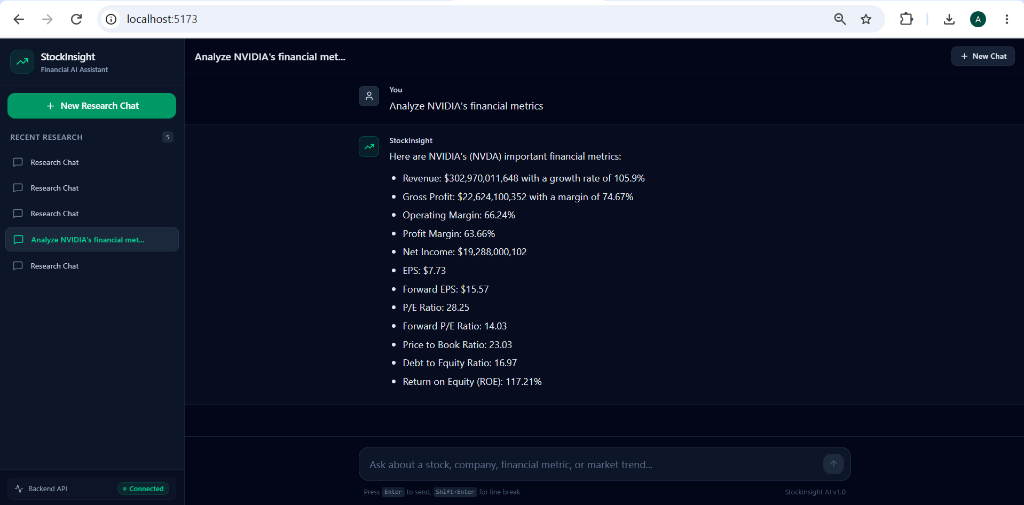
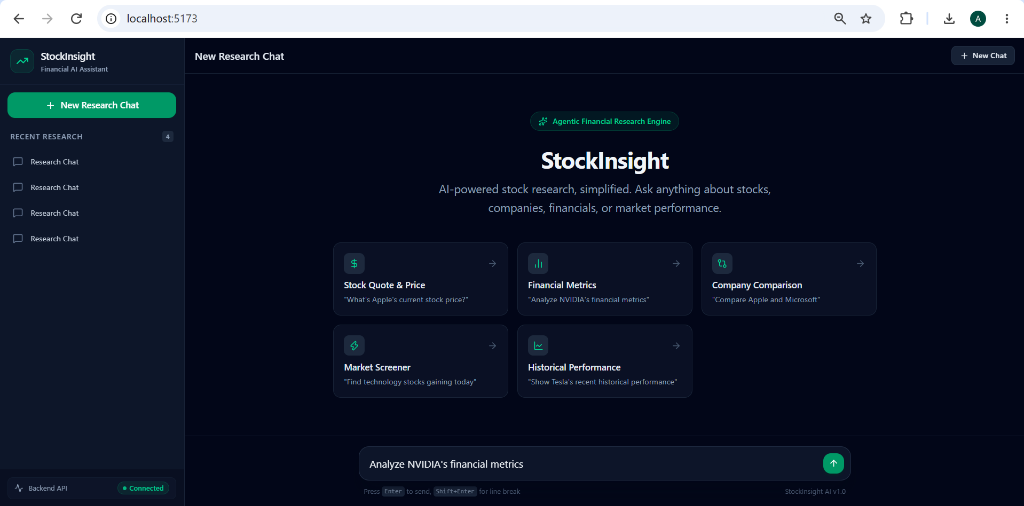
Updated

diff --git a/README.md b/README.md
@@ -1,203 +1,128 @@
 # StockInsight
 
-**AI-powered stock research and screening agent built with LangGraph, Qwen 2.5, FastAPI, and modern web technologies.**
+Agentic financial research assistant powered by LangGraph, Qwen 2.5, FastAPI, and yfinance.
 
-StockInsight is an agentic financial assistant that replaces manual ticker hunting with natural-language conversations. Users can ask about stock prices, company profiles, financial metrics, historical performance, stock screeners, or side-by-side company comparisons. 
-
-Rather than relying on rigid keyword routing, StockInsight uses an LLM-driven agentic graph to dynamically decide which financial tools to invoke, execute them against live data providers, and synthesize raw metrics into clean, structured insights.
-
-| Hero & Quick Prompts | Research & Financial Metrics |
-| :---: | :---: |
-| ![StockInsight Hero](docs/assets/stockinsight-empty.png) | ![StockInsight Research](docs/assets/stockinsight-chat.png) |
+StockInsight is an AI application for natural-language stock research. Users can ask questions about stock prices, company profiles, financial metrics, historical performance, and stock screening, while the LangGraph agent dynamically selects the appropriate research tools, queries live market data, and synthesizes structured insights.
 
 ---
 
-## ⚡ Key Features
+## Key Features
 
-- **Natural-Language Stock Research**: Conversationally query market data, earnings metrics, and price trends.
-- **Agentic Tool Calling**: The agent autonomously determines which tools are required to answer complex multi-part queries.
-- **Stock Screening**: Filter top market gainers, losers, technology stocks, and valuation candidates.
-- **Fundamental & Technical Data**: Pull real-time prices, financial statements, valuation ratios (P/E, ROE, margins), and OHLC history.
-- **Real-Time Streaming**: Stream model output token-by-token using Server-Sent Events (SSE).
-- **Persistent State Checkpointing**: State and conversation history persisted per `thread_id` via SQLite.
-- **Decoupled Architecture**: High-performance FastAPI backend paired with a modern React + Vite frontend.
-- **Observability**: Full agent execution tracing and tool monitoring integrated with LangSmith.
-
----
-
-## 🧠 How the Agent Works
-
-StockInsight executes a cyclic decision loop powered by **LangGraph** and **Qwen 2.5 (14B)**:
-
-```
-[User Query] ──▶ [LLM Agent Node] ──▶ Requires Tool? ──┬─ Yes ──▶ [Tool Execution Node] ──▶ (Feed results back to LLM)
-                                                      │
-                                                      └─ No  ──▶ [Stream Final Response]
-```
-
-1. **Evaluation**: The LLM evaluates user intent and inspects available tool definitions.
-2. **Tool Execution**: If data is needed, the graph routes execution to the specified financial research tool.
-3. **Synthesis**: Tool outputs (raw financial JSON/dictionaries) are passed back into the graph state for the LLM to format and present.
+- **Agentic Tool Selection**: Dynamically routes user queries to specialized financial research tools using LangGraph state machines.
+- **Natural-Language Stock Research**: Queries fundamentals, financial metrics, and price history in plain English.
+- **Financial Research Tools**: Integrates with `yfinance` to pull live stock prices, company profiles, financial statements, and OHLC data.
+- **Stock Screening**: Runs predefined market screens such as day gainers, technology growth, and undervalued stocks.
+- **Streaming Responses**: Delivers real-time token streaming to the frontend using FastAPI Server-Sent Events (SSE).
+- **Persistent Sessions**: Manages multi-turn conversation state across distinct sessions using SQLite checkpointing.
+- **FastAPI Backend**: Asynchronous API server handling agent execution, streaming, and session history management.
+- **LangSmith Observability**: End-to-end execution tracing for agent decision-making and tool invocations.
 
 ---
 
-## 🏗 Architecture & Data Flow
+## How It Works
 
 ```mermaid
 flowchart TD
-    subgraph Client ["Frontend Layer"]
-        UI["React + Vite + Tailwind CSS"]
-    end
-
-    subgraph API ["Backend API Layer"]
-        FA["FastAPI (fastapi_backend.py)"]
-        SSE["Server-Sent Events (/chat/stream)"]
-    end
-
-    subgraph Agent ["Agent Engine Layer"]
-        LG["LangGraph Workflow (backend_flow.py)"]
-        LLM["Qwen 2.5 14B (via Ollama)"]
-        Saver[("SQLite Checkpointer (chatbot.db)")]
-    end
-
-    subgraph Tools ["Financial Research Tools"]
-        T1["simple_screener"]
-        T2["get_stock_price"]
-        T3["get_company_profile"]
-        T4["get_financial_summary"]
-        T5["get_stock_history"]
-        YF[("yfinance / Yahoo Finance")]
-    end
-
-    subgraph Obs ["Observability"]
-        LS["LangSmith Tracing"]
-    end
-
-    UI <-->|HTTP / SSE| FA
-    FA <--> SSE
-    FA <--> LG
-    LG <--> Saver
-    LG <--> LLM
-    LG <--> Tools
-    Tools <--> YF
-    LG -.->|Traces| LS
+    User([User]) --> UI[React Frontend]
+    UI -->|HTTP / SSE| API[FastAPI Backend]
+    API --> Agent[LangGraph Agent Workflow]
+    Agent -->|Persist / Load State| DB[(SQLite Checkpointer)]
+    Agent <-->|LLM Invocation| LLM[Qwen 2.5 / Ollama]
+    Agent -->|Route Tool Call| Tools{Tool Node}
+    Tools -->|Fetch Financial Data| YF[yfinance API]
+    YF -->|Raw Market Data| Tools
+    Tools -->|Tool Results| Agent
+    Agent -->|Token Stream via SSE| API
+    API -->|Stream Response| UI
+    Agent -.->|Execution Traces| LS[LangSmith]
 ```
 
 ---
 
-## 🛠 Financial Research Tools
+## Agent Tools
 
-The agent is bound to five specialized tools exposed via LangChain function calling:
+The LLM is equipped with five tools for retrieving stock and market data:
 
-| Tool | Description |
-|---|---|
-| `simple_screener` | Screens stocks using predefined Yahoo Finance market filters (day gainers, tech growth, etc.). |
-| `get_stock_price` | Fetches the latest market price, currency, and daily percentage movement for a ticker. |
-| `get_company_profile` | Retrieves business summary, sector, industry, market cap, and employee count. |
-| `get_financial_summary` | Pulls fundamental metrics including Revenue, EPS, Profit Margins, P/E ratio, Debt-to-Equity, and ROE. |
-| `get_stock_history` | Downloads historical OHLC (Open, High, Low, Close) and volume data across custom timeframes. |
+| Tool | Purpose |
+| --- | --- |
+| `simple_screener` | Stock screening using predefined market screens |
+| `get_stock_price` | Latest available price and daily change |
+| `get_company_profile` | Company and business information |
+| `get_financial_summary` | Key financial and valuation metrics |
+| `get_stock_history` | Historical OHLC and volume data |
 
----
-
-## 🌊 Streaming & Real-Time Responses
-
-StockInsight streams response tokens incrementally for a responsive chat experience:
-
-1. LangGraph streams messages in chunked tokens during graph execution.
-2. FastAPI exposes `POST /chat/stream` returning `text/event-stream`.
-3. Server-Sent Events (SSE) forward formatted JSON data payloads (`data: {"type": "token", "content": "..."}`).
-4. The React frontend parses incoming stream chunks line-by-line via `ReadableStream` and renders Markdown progressively.
+LangChain exposes these tools to the LLM via tool binding, while LangGraph manages conditional routing and tool execution within the agent loop.
 
 ---
 
-## 💾 State Persistence
+## Streaming & Persistence
 
-State checkpointing is powered by LangGraph's `SqliteSaver` connected to `chatbot.db`:
-
-- Every research interaction is isolated under a unique `thread_id`.
-- Interrupted or multi-turn research workflows preserve context across sessions.
-- Users can seamlessly switch between active and historical research threads without losing agent memory.
+- **Streaming**: FastAPI exposes a `POST /chat/stream` endpoint that streams model output tokens using Server-Sent Events (SSE). Raw internal tool output is processed and filtered on the backend before final response tokens are streamed to the frontend.
+- **Persistence**: LangGraph state is checkpointed in SQLite via `SqliteSaver`. Each chat session is tracked using a unique `thread_id`, enabling multi-turn conversation memory and session switching without state loss.
 
 ---
 
-## 🧰 Tech Stack
+## Tech Stack
 
-| Component | Technology |
-|---|---|
-| **AI & Agent** | LangGraph, LangChain, Qwen 2.5 (14B), Ollama |
-| **Backend API** | Python, FastAPI, Uvicorn, SSE |
-| **Data Provider** | yfinance (Yahoo Finance API) |
-| **Persistence** | SQLite, LangGraph `SqliteSaver` |
-| **Frontend** | React 19, Vite, Tailwind CSS v4, Lucide React, React Markdown |
-| **Observability** | LangSmith |
+- **AI & Agent Engine**: Python, LangGraph, LangChain, Qwen 2.5 (14B), Ollama
+- **Backend API**: FastAPI, Uvicorn, Server-Sent Events (SSE)
+- **Financial Data**: `yfinance` (Yahoo Finance API)
+- **Persistence**: SQLite, `SqliteSaver`
+- **Frontend**: React 19, Vite, Tailwind CSS v4
+- **Observability**: LangSmith
 
 ---
 
-## 🔌 API Endpoints
-
-FastAPI exposes the following core endpoints (`fastapi_backend.py`):
-
-- `POST /chat/stream` — Main streaming endpoint consuming a prompt and `thread_id`, returning an SSE text stream.
-- `POST /chat` — Synchronous chat endpoint returning complete assistant response object.
-- `GET /conversations` — Retrieves list of existing persistent thread IDs from SQLite checkpoints.
-- `GET /conversations/{thread_id}` — Loads full message history for a given conversation thread.
-- `POST /conversations` — Instantiates a new thread ID session.
-- `GET /health` — Returns service status and health information.
-
----
-
-## 📂 Project Structure
+## Project Structure
 
 ```
 stockScreener/
-├── backend_flow.py       # LangGraph agent workflow & state machine definition
-├── fastapi_backend.py    # FastAPI application, CORS, and SSE streaming endpoints
-├── tool.py               # yfinance tool declarations (@tool wrappers)
-├── chatbot.db            # SQLite checkpoint database
-├── frontend/             # React + Vite frontend application
-│   ├── src/
-│   │   ├── components/   # Sidebar, Header, ChatInput, MessageBubble, EmptyState
-│   │   ├── services/     # API integration & SSE stream parser (api.js)
-│   │   └── App.jsx       # Main application layout and state management
-│   ├── package.json
-│   └── vite.config.js
-├── docs/assets/          # Project documentation screenshots
-├── .env                  # Environment variables configuration
-└── README.md             # Technical project documentation
+├── backend_flow.py       # LangGraph agent graph, state, and nodes
+├── fastapi_backend.py    # FastAPI server, REST endpoints, and SSE streaming
+├── tool.py               # yfinance tool definitions (@tool functions)
+├── requirements.txt      # Python backend dependencies
+└── frontend/             # React + Vite frontend application
+    ├── src/
+    │   ├── components/   # UI components (Sidebar, ChatInput, MessageBubble)
+    │   ├── services/     # API client and SSE stream reader (api.js)
+    │   └── App.jsx       # Main application layout and state logic
+    ├── package.json      # Frontend package configuration and scripts
+    └── vite.config.js    # Vite configuration
 ```
 
 ---
 
-## 🚀 Run Locally
+## Run Locally
 
 ### 1. Prerequisites
-- **Python 3.10+**
-- **Node.js v18+** & **npm**
-- **Ollama** with Qwen 2.5 installed (`ollama pull qwen2.5:14b`)
+- Python 3.10+
+- Node.js 18+ and npm
+- Ollama installed and running
 
-### 2. Environment Configuration
-Create a `.env` file in the project root:
+### 2. Start Ollama Model
+Pull and run the Qwen 2.5 model:
+```bash
+ollama pull qwen2.5:14b
+```
+
+### 3. Configure Environment (Optional)
+Create a `.env` file in the project root to enable LangSmith tracing:
 ```env
 LANGCHAIN_TRACING_V2=true
-LANGCHAIN_API_KEY=your_langsmith_api_key_here
+LANGCHAIN_API_KEY=your_langsmith_api_key
 LANGCHAIN_PROJECT=StockInsight
 ```
 
-### 3. Start Local LLM
-```bash
-ollama run qwen2.5:14b
-```
-
-### 4. Launch FastAPI Backend
-Install Python dependencies and start the API server:
+### 4. Launch Backend Server
+Install dependencies and run the FastAPI server:
 ```bash
 pip install -r requirements.txt
 python fastapi_backend.py
 ```
-The API server will run at `http://localhost:8000`.
+The backend will be available at `http://localhost:8000`.
 
-### 5. Launch React Frontend
-In a separate terminal:
+### 5. Launch Frontend
+In a separate terminal, navigate to the frontend directory and start the dev server:
 ```bash
 cd frontend
 npm install
@@ -207,24 +132,6 @@ Open `http://localhost:5173` in your browser.
 
 ---
 
-## 🎯 Engineering Highlights
+## Disclaimer
 
-- **Autonomous Tool Selection**: Leveraged LangGraph cyclic state graph to let LLM decide tool execution without rigid heuristic branching.
-- **Production Streaming Protocol**: Engineered SSE streaming pipeline filtering raw internal tool JSON to emit only clean assistant markdown tokens.
-- **Decoupled Architecture**: Clean separation between FastAPI backend state engine and React frontend UI.
-- **Zero-Data Loss Persistence**: Integrated SQLite checkpointing guaranteeing long-running multi-turn session persistence.
-
----
-
-## 🔮 Future Improvements
-
-- PostgreSQL backing for enterprise-scale checkpoint storage.
-- Interactive financial charting components (ApexCharts / Recharts).
-- News sentiment analysis and SEC filing research tools.
-- Automated evaluation suite for tool selection accuracy.
-
----
-
-## ⚠ Disclaimer
-
-*StockInsight is built strictly for informational and educational purposes. Financial market data depends on upstream providers and does not constitute financial advice.*
+StockInsight is intended for educational and informational research purposes and does not provide personalized financial advice.
